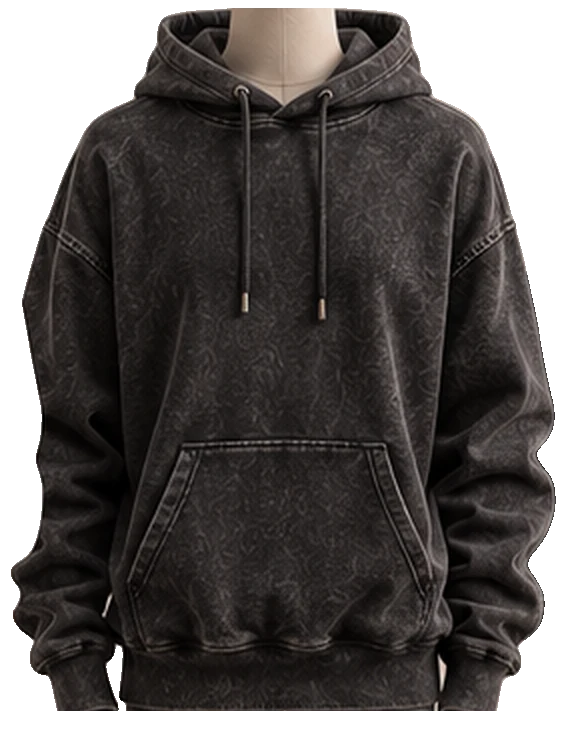
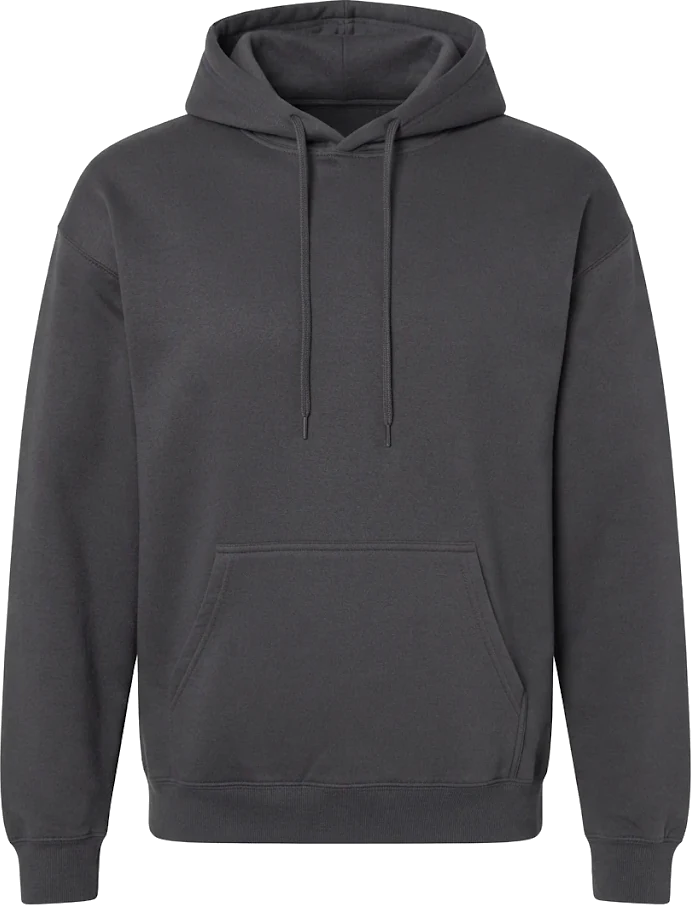
changes

diff --git a/client/src/components/three/Rail.tsx b/client/src/components/three/Rail.tsx
@@ -14,6 +14,8 @@ const H = (W * 130) / 100;
 const COLS = 26;
 const ROWS = 34;
 const RAIL_Y = 1.55;
+// Lifts the garment so its shoulder line sits over the hanger arms.
+const GARMENT_Y = 0.1;
 
 function hangerGeometry() {
   const points = [
@@ -91,7 +93,12 @@ function Piece({ product, index, spacing, state, onPick, reduced, hanger }: { pr
     return values;
   }, [built]);
   const puff = product.garment === "scarf" ? 0.05 : product.fabric === "silk" ? 0.1 : 0.16;
+  const base = product.colors[0]!;
+  // Real photos already carry their own highlights; a strong white sheen on top washes them out.
+  const isPhoto = Boolean(product.images?.[base.key]);
   const materials = useMemo(() => {
+    const sheen = isPhoto ? Math.min(feel.sheen, 0.25) : feel.sheen;
+    const sheenColor = isPhoto ? new THREE.Color(base.hex).lerp(new THREE.Color("#ffffff"), 0.3) : new THREE.Color("#ffffff");
     const make = (side: THREE.Side, tone: number) =>
       new THREE.MeshPhysicalMaterial({
         map: built.map,
@@ -99,15 +106,16 @@ function Piece({ product, index, spacing, state, onPick, reduced, hanger }: { pr
         normalScale: new THREE.Vector2(0.35 + feel.weave * 0.5, 0.35 + feel.weave * 0.5),
         alphaTest: 0.5,
         side,
-        roughness: feel.roughness,
+        roughness: isPhoto ? Math.max(feel.roughness, 0.8) : feel.roughness,
+        specularIntensity: isPhoto ? 0.35 : 1,
         metalness: 0,
-        sheen: feel.sheen,
+        sheen,
         sheenRoughness: product.fabric === "silk" ? 0.3 : 0.8,
-        sheenColor: new THREE.Color("#ffffff"),
+        sheenColor,
         color: new THREE.Color(tone, tone, tone),
       });
     return { front: make(THREE.FrontSide, 1), back: make(THREE.BackSide, 0.82) };
-  }, [built, feel.weave, feel.roughness, feel.sheen, product.fabric]);
+  }, [built, feel.weave, feel.roughness, feel.sheen, product.fabric, isPhoto, base.hex]);
   const swing = useRef({ angle: 0, velocity: 0, lift: 0, turn: 0, energy: 0 });
   const phase = index * 1.7;
 
@@ -193,11 +201,12 @@ function Piece({ product, index, spacing, state, onPick, reduced, hanger }: { pr
   return (
     <>
       <group ref={group}>
-        <mesh geometry={hanger} position={[0, -0.02, 0.02]}>
+        {/* Hanger sits inside the garment: arms hidden by the shoulders, only the hook and neck show. */}
+        <mesh geometry={hanger} position={[0, -0.02, -0.015]} scale={[product.garment === "trousers" ? 0.62 : 1, 1, 1]}>
           <meshStandardMaterial color="#8c6a43" roughness={0.45} metalness={0.6} />
         </mesh>
-        <mesh geometry={front} material={materials.front} position={[0, -0.06, 0]} {...events} />
-        <mesh geometry={back} material={materials.back} position={[0, -0.06, 0]} {...events} />
+        <mesh geometry={front} material={materials.front} position={[0, GARMENT_Y, 0]} {...events} />
+        <mesh geometry={back} material={materials.back} position={[0, GARMENT_Y, 0]} {...events} />
       </group>
       <mesh position={[index * spacing, RAIL_Y - 0.36 - H - 0.62, 0]} rotation={[-Math.PI / 2, 0, 0]} scale={[1, 0.55, 1]}>
         <circleGeometry args={[0.8, 32]} />

diff --git a/client/src/components/three/fabricTexture.ts b/client/src/components/three/fabricTexture.ts
@@ -280,6 +280,51 @@ export function garmentTexture(garment: Garment, pattern: Pattern, fabric: Fabri
   return { map: texture(element, true), normal: texture(normalFrom(height.element, 2 + feel.weave * 4), false), field: distanceField(element), fieldW: FIELD_W, fieldH: FIELD_H };
 }
 
+// Fraction of the plane width the garment's shoulders should cover (hanger bar is ~54%).
+const SHOULDER_SPAN = 0.62;
+// Gap above the garment so its shoulders meet the hanger bar, not the hook.
+const TOP_GAP = 0.035;
+
+/** Trim transparent padding and locate the shoulder line of a cut-out garment photo. */
+function garmentBounds(image: HTMLImageElement) {
+  const iw = image.naturalWidth;
+  const ih = image.naturalHeight;
+  const { ctx } = canvas(iw, ih);
+  ctx.drawImage(image, 0, 0);
+  const data = ctx.getImageData(0, 0, iw, ih).data;
+  const solid = (x: number, y: number) => data[(y * iw + x) * 4 + 3]! > 40;
+  const rows: [number, number][] = [];
+  let top = -1;
+  let bottom = -1;
+  let left = iw;
+  let right = -1;
+  for (let y = 0; y < ih; y += 1) {
+    let a = -1;
+    let b = -1;
+    for (let x = 0; x < iw; x += 1)
+      if (solid(x, y)) {
+        if (a < 0) a = x;
+        b = x;
+      }
+    rows.push([a, b]);
+    if (a < 0) continue;
+    if (top < 0) top = y;
+    bottom = y;
+    left = Math.min(left, a);
+    right = Math.max(right, b);
+  }
+  if (top < 0) return { x: 0, y: 0, w: iw, h: ih, shoulder: iw, center: iw / 2 };
+  const w = right - left + 1;
+  const h = bottom - top + 1;
+  // The garment "starts" at the first row wider than a quarter of its width,
+  // skipping stray hanger hooks, tags or a mannequin neck poking out the top.
+  let start = top;
+  while (start < bottom && rows[start]![1] - rows[start]![0] < w * 0.25) start += 1;
+  const probe = rows[Math.min(bottom, start + Math.round(h * 0.06))]!;
+  const shoulder = Math.max(probe[1] - probe[0] + 1, w * 0.4);
+  return { x: left, y: start, w, h: bottom - start + 1, shoulder, center: (probe[0] + probe[1]) / 2 };
+}
+
 export async function photoTexture(url: string, fabric: Fabric): Promise<Built> {
   const image = new Image();
   image.decoding = "async";
@@ -288,10 +333,13 @@ export async function photoTexture(url: string, fabric: Fabric): Promise<Built> 
   const W = VIEW.w * 6;
   const H = VIEW.h * 6;
   const { element, ctx } = canvas(W, H);
-  const fit = Math.min(W / image.naturalWidth, H / image.naturalHeight);
-  const dw = image.naturalWidth * fit;
-  const dh = image.naturalHeight * fit;
-  ctx.drawImage(image, (W - dw) / 2, 0, dw, dh);
+  const box = garmentBounds(image);
+  // Size by the shoulder line so every garment spans the hanger the same way,
+  // but never let the full silhouette overflow the plane.
+  const fit = Math.min((W * SHOULDER_SPAN) / box.shoulder, (W * 0.94) / box.w, (H * (1 - TOP_GAP - 0.02)) / box.h);
+  const dw = box.w * fit;
+  const dh = box.h * fit;
+  ctx.drawImage(image, box.x, box.y, box.w, box.h, W / 2 - (box.center - box.x) * fit, H * TOP_GAP, dw, dh);
   const height = canvas(W, H);
   height.ctx.fillStyle = "#808080";
   height.ctx.fillRect(0, 0, W, H);

diff --git a/docs/photo-prompts.md b/docs/photo-prompts.md
@@ -1,0 +1,167 @@
+# Product photo prompts
+
+One prompt per photo in `client/public/products/`. Generate each one, save it under the
+**file name shown**, and drop it in that folder (any format — it gets converted and the
+white background removed).
+
+Tips
+- Keep every prompt's wording unchanged apart from the garment line, so the rail looks like one shoot.
+- Reject any result showing a mannequin neck, hanger, hook, tag, or a cropped hem/sleeve.
+- Colour variants of the same product: generate them in the same session, and if your tool
+  supports it, attach the first approved image as a reference ("same garment, recolored").
+
+---
+
+## Heavy Fleece Hoodie
+
+### `hoodie-ivory`
+```
+Ghost mannequin e-commerce product photo of a relaxed heavyweight pullover hoodie in warm ivory brushed cotton fleece, lined hood lying flat behind the neckline, drawstrings hanging evenly, deep kangaroo pocket, ribbed cuffs and hem, dropped shoulders. Front view, perfectly symmetrical and centered. No mannequin, no neck form, no body, no hanger, no tags; hollow neckline showing the inside back. Shoulders level at the top, sleeves relaxed straight down at the sides. Full garment visible with a small even margin, nothing cropped. Pure flat white background, soft even studio light, no shadows, no props, no text. Sharp fabric texture, true-to-life color. Portrait 3:4, high resolution.
+```
+
+### `hoodie-charcoal`
+```
+Ghost mannequin e-commerce product photo of a relaxed heavyweight pullover hoodie in dark charcoal grey brushed cotton fleece, lined hood lying flat behind the neckline, drawstrings hanging evenly, deep kangaroo pocket, ribbed cuffs and hem, dropped shoulders. Front view, perfectly symmetrical and centered. No mannequin, no neck form, no body, no hanger, no tags; hollow neckline showing the inside back. Shoulders level at the top, sleeves relaxed straight down at the sides. Full garment visible with a small even margin, nothing cropped. Pure flat white background, soft even studio light, no shadows, no props, no text. Sharp fabric texture, true-to-life color. Portrait 3:4, high resolution.
+```
+
+### `hoodie-forest`
+```
+Ghost mannequin e-commerce product photo of a relaxed heavyweight pullover hoodie in deep forest green brushed cotton fleece, lined hood lying flat behind the neckline, drawstrings hanging evenly, deep kangaroo pocket, ribbed cuffs and hem, dropped shoulders. Front view, perfectly symmetrical and centered. No mannequin, no neck form, no body, no hanger, no tags; hollow neckline showing the inside back. Shoulders level at the top, sleeves relaxed straight down at the sides. Full garment visible with a small even margin, nothing cropped. Pure flat white background, soft even studio light, no shadows, no props, no text. Sharp fabric texture, true-to-life color. Portrait 3:4, high resolution.
+```
+
+### `hoodie-heather`
+```
+Ghost mannequin e-commerce product photo of a relaxed heavyweight pullover hoodie in light heather grey marled cotton fleece, lined hood lying flat behind the neckline, drawstrings hanging evenly, deep kangaroo pocket, ribbed cuffs and hem, dropped shoulders. Front view, perfectly symmetrical and centered. No mannequin, no neck form, no body, no hanger, no tags; hollow neckline showing the inside back. Shoulders level at the top, sleeves relaxed straight down at the sides. Full garment visible with a small even margin, nothing cropped. Pure flat white background, soft even studio light, no shadows, no props, no text. Sharp fabric texture, true-to-life color. Portrait 3:4, high resolution.
+```
+
+### `hoodie-indigo`
+```
+Ghost mannequin e-commerce product photo of a relaxed heavyweight pullover hoodie in deep indigo navy brushed cotton fleece, lined hood lying flat behind the neckline, drawstrings hanging evenly, deep kangaroo pocket, ribbed cuffs and hem, dropped shoulders. Front view, perfectly symmetrical and centered. No mannequin, no neck form, no body, no hanger, no tags; hollow neckline showing the inside back. Shoulders level at the top, sleeves relaxed straight down at the sides. Full garment visible with a small even margin, nothing cropped. Pure flat white background, soft even studio light, no shadows, no props, no text. Sharp fabric texture, true-to-life color. Portrait 3:4, high resolution.
+```
+
+---
+
+## Denim Trucker Jacket
+
+### `jacket-indigo`
+```
+Ghost mannequin e-commerce product photo of a classic denim trucker jacket in dark indigo washed denim, buttoned closed, pointed collar, two chest flap pockets, metal shank buttons, contrast tan stitching, buttoned cuffs and waistband. Front view, perfectly symmetrical and centered. No mannequin, no neck form, no body, no hanger, no tags; hollow collar opening showing the inside back. Shoulders level at the top, sleeves relaxed straight down at the sides. Full garment visible with a small even margin, nothing cropped. Pure flat white background, soft even studio light, no shadows, no props, no text. Sharp denim twill texture, true-to-life color. Portrait 3:4, high resolution.
+```
+
+### `jacket-black`
+```
+Ghost mannequin e-commerce product photo of a classic denim trucker jacket in washed black denim, buttoned closed, pointed collar, two chest flap pockets, metal shank buttons, tonal grey stitching, buttoned cuffs and waistband. Front view, perfectly symmetrical and centered. No mannequin, no neck form, no body, no hanger, no tags; hollow collar opening showing the inside back. Shoulders level at the top, sleeves relaxed straight down at the sides. Full garment visible with a small even margin, nothing cropped. Pure flat white background, soft even studio light, no shadows, no props, no text. Sharp denim twill texture, true-to-life color. Portrait 3:4, high resolution.
+```
+
+### `jacket-ivory`
+```
+Ghost mannequin e-commerce product photo of a classic denim trucker jacket in ecru ivory undyed denim, buttoned closed, pointed collar, two chest flap pockets, metal shank buttons, tonal stitching, buttoned cuffs and waistband. Front view, perfectly symmetrical and centered. No mannequin, no neck form, no body, no hanger, no tags; hollow collar opening showing the inside back. Shoulders level at the top, sleeves relaxed straight down at the sides. Full garment visible with a small even margin, nothing cropped. Pure flat white background, soft even studio light, gentle shading so the ivory fabric stays distinct from the background, no props, no text. Sharp denim twill texture, true-to-life color. Portrait 3:4, high resolution.
+```
+
+---
+
+## Cord Trucker Jacket
+
+### `jacket-tobacco`
+```
+Ghost mannequin e-commerce product photo of a trucker jacket in tobacco brown cotton corduroy with clearly visible vertical wales, buttoned closed, pointed collar, two chest flap pockets, metal shank buttons, buttoned cuffs and waistband. Front view, perfectly symmetrical and centered. No mannequin, no neck form, no body, no hanger, no tags; hollow collar opening showing the inside back. Shoulders level at the top, sleeves relaxed straight down at the sides. Full garment visible with a small even margin, nothing cropped. Pure flat white background, soft even studio light, no shadows, no props, no text. Sharp corduroy texture, true-to-life color. Portrait 3:4, high resolution.
+```
+
+---
+
+## Oversized Cotton Tee
+
+### `tee-ivory`
+```
+Ghost mannequin e-commerce product photo of an oversized heavyweight crew-neck t-shirt in warm ivory cotton jersey, dropped shoulders, wide short sleeves to the elbow, clean ribbed collar, straight boxy hem. Front view, perfectly symmetrical and centered. No mannequin, no neck form, no body, no hanger, no tags; hollow neckline showing the inside back. Shoulders level at the top, sleeves relaxed at the sides. Full garment visible with a small even margin, nothing cropped. Pure flat white background, soft even studio light, gentle shading so the ivory fabric stays distinct from the background, no props, no text. Sharp jersey knit texture, true-to-life color. Portrait 3:4, high resolution.
+```
+
+### `tee-black`
+```
+Ghost mannequin e-commerce product photo of an oversized heavyweight crew-neck t-shirt in black cotton jersey, dropped shoulders, wide short sleeves to the elbow, clean ribbed collar, straight boxy hem. Front view, perfectly symmetrical and centered. No mannequin, no neck form, no body, no hanger, no tags; hollow neckline showing the inside back. Shoulders level at the top, sleeves relaxed at the sides. Full garment visible with a small even margin, nothing cropped. Pure flat white background, soft even studio light, no shadows, no props, no text. Sharp jersey knit texture with visible soft folds, true-to-life color. Portrait 3:4, high resolution.
+```
+
+### `tee-forest`
+```
+Ghost mannequin e-commerce product photo of an oversized heavyweight crew-neck t-shirt in deep forest green cotton jersey, dropped shoulders, wide short sleeves to the elbow, clean ribbed collar, straight boxy hem. Front view, perfectly symmetrical and centered. No mannequin, no neck form, no body, no hanger, no tags; hollow neckline showing the inside back. Shoulders level at the top, sleeves relaxed at the sides. Full garment visible with a small even margin, nothing cropped. Pure flat white background, soft even studio light, no shadows, no props, no text. Sharp jersey knit texture, true-to-life color. Portrait 3:4, high resolution.
+```
+
+---
+
+## Breton Stripe Tee
+
+### `tee-stripe`
+```
+Ghost mannequin e-commerce product photo of a slightly boxy crew-neck t-shirt in soft ivory combed cotton with evenly spaced horizontal navy blue knitted stripes across body and sleeves, short sleeves, ribbed collar, straight hem. Front view, perfectly symmetrical and centered, stripes perfectly horizontal. No mannequin, no neck form, no body, no hanger, no tags; hollow neckline showing the inside back. Shoulders level at the top, sleeves relaxed at the sides. Full garment visible with a small even margin, nothing cropped. Pure flat white background, soft even studio light, no shadows, no props, no text. Sharp knit texture, true-to-life color. Portrait 3:4, high resolution.
+```
+
+---
+
+## Satin Puff-Sleeve Dress
+
+### `dress-burgundy` ✅ done
+
+---
+
+## Floral Poplin Dress
+
+### `dress-floral`
+```
+Ghost mannequin e-commerce product photo of a midi dress in crisp ivory cotton poplin printed with small scattered dusty-blue flowers, square neckline, short puff sleeves, elasticated smocked bodice, gathered tiered skirt falling to mid-calf. Front view, perfectly symmetrical and centered. No mannequin, no neck form, no body, no hanger, no tags; hollow neckline showing the inside back. Shoulders level at the top, sleeves relaxed at the sides, skirt hanging naturally. Full garment visible with a small even margin, nothing cropped. Pure flat white background, soft even studio light, gentle shading so the ivory fabric stays distinct from the background, no props, no text. Sharp print detail, true-to-life color. Portrait 3:4, high resolution.
+```
+
+---
+
+## Linen Shirt Dress
+
+### `dress-olive`
+```
+Ghost mannequin e-commerce product photo of a long-sleeve shirt dress in washed olive green linen with natural slubby texture and soft creases, pointed shirt collar, buttoned all the way down the front, self-fabric tie belt knotted at the waist, buttoned cuffs, skirt falling to mid-calf. Front view, perfectly symmetrical and centered. No mannequin, no neck form, no body, no hanger, no tags; hollow collar opening showing the inside back. Shoulders level at the top, sleeves relaxed straight down at the sides. Full garment visible with a small even margin, nothing cropped. Pure flat white background, soft even studio light, no shadows, no props, no text. Sharp linen texture, true-to-life color. Portrait 3:4, high resolution.
+```
+
+---
+
+## Classic Crepe Dress
+
+### `dress-black`
+```
+Ghost mannequin e-commerce product photo of a classic midi dress in matte black wool crepe, round neckline, long full bishop sleeves gathered into narrow cuffs, slim self-fabric belt at the waist, full flared skirt falling to mid-calf. Front view, perfectly symmetrical and centered. No mannequin, no neck form, no body, no hanger, no tags; hollow neckline showing the inside back. Shoulders level at the top, sleeves relaxed straight down at the sides. Full garment visible with a small even margin, nothing cropped. Pure flat white background, soft even studio light with subtle highlights so the folds and shape of the black fabric are readable, no props, no text. Sharp matte crepe texture, true-to-life color. Portrait 3:4, high resolution.
+```
+
+---
+
+## Wide-Leg Jeans
+
+### `jeans-sky`
+```
+Ghost mannequin e-commerce product photo of high-rise wide-leg jeans in light-wash blue rigid cotton denim, relaxed through the hip, wide straight legs to the floor, five pockets, metal button and rivets, belt loops. Front view, perfectly symmetrical and centered. No mannequin, no body, no hanger, no tags. Jeans hang straight down from the waistband, waistband level and horizontal at the very top, open waist showing the inside back, legs side by side. Full garment visible with a small even margin, hems not cropped. Pure flat white background, soft even studio light, no shadows, no props, no text. Sharp denim twill texture, true-to-life color. Portrait 3:4, high resolution.
+```
+
+### `jeans-indigo`
+```
+Ghost mannequin e-commerce product photo of high-rise wide-leg jeans in dark raw indigo rigid cotton denim, relaxed through the hip, wide straight legs to the floor, five pockets, metal button and rivets, belt loops, tan contrast stitching. Front view, perfectly symmetrical and centered. No mannequin, no body, no hanger, no tags. Jeans hang straight down from the waistband, waistband level and horizontal at the very top, open waist showing the inside back, legs side by side. Full garment visible with a small even margin, hems not cropped. Pure flat white background, soft even studio light, no shadows, no props, no text. Sharp denim twill texture, true-to-life color. Portrait 3:4, high resolution.
+```
+
+### `jeans-black`
+```
+Ghost mannequin e-commerce product photo of high-rise wide-leg jeans in washed black rigid cotton denim, relaxed through the hip, wide straight legs to the floor, five pockets, metal button and rivets, belt loops. Front view, perfectly symmetrical and centered. No mannequin, no body, no hanger, no tags. Jeans hang straight down from the waistband, waistband level and horizontal at the very top, open waist showing the inside back, legs side by side. Full garment visible with a small even margin, hems not cropped. Pure flat white background, soft even studio light with subtle highlights so the seams and folds read clearly, no props, no text. Sharp denim twill texture, true-to-life color. Portrait 3:4, high resolution.
+```
+
+---
+
+## Pleated Wool Trousers
+
+### `trousers-sand`
+```
+Ghost mannequin e-commerce product photo of high-waisted pleated trousers in sand beige soft wool-blend twill, double front pleats, long wide straight legs with a pressed center crease, slant side pockets, belt loops, hook-and-bar waistband. Front view, perfectly symmetrical and centered. No mannequin, no body, no hanger, no tags. Trousers hang straight down from the waistband, waistband level and horizontal at the very top, open waist showing the inside back, legs side by side. Full garment visible with a small even margin, hems not cropped. Pure flat white background, soft even studio light, no shadows, no props, no text. Sharp wool twill texture, true-to-life color. Portrait 3:4, high resolution.
+```
+
+### `trousers-black`
+```
+Ghost mannequin e-commerce product photo of high-waisted pleated trousers in black soft wool-blend twill, double front pleats, long wide straight legs with a pressed center crease, slant side pockets, belt loops, hook-and-bar waistband. Front view, perfectly symmetrical and centered. No mannequin, no body, no hanger, no tags. Trousers hang straight down from the waistband, waistband level and horizontal at the very top, open waist showing the inside back, legs side by side. Full garment visible with a small even margin, hems not cropped. Pure flat white background, soft even studio light with subtle highlights so pleats and crease read clearly, no props, no text. Sharp wool twill texture, true-to-life color. Portrait 3:4, high resolution.
+```
+
+### `trousers-charcoal`
+```
+Ghost mannequin e-commerce product photo of high-waisted pleated trousers in charcoal grey soft wool-blend twill, double front pleats, long wide straight legs with a pressed center crease, slant side pockets, belt loops, hook-and-bar waistband. Front view, perfectly symmetrical and centered. No mannequin, no body, no hanger, no tags. Trousers hang straight down from the waistband, waistband level and horizontal at the very top, open waist showing the inside back, legs side by side. Full garment visible with a small even margin, hems not cropped. Pure flat white background, soft even studio light, no shadows, no props, no text. Sharp wool twill texture, true-to-life color. Portrait 3:4, high resolution.
+```
